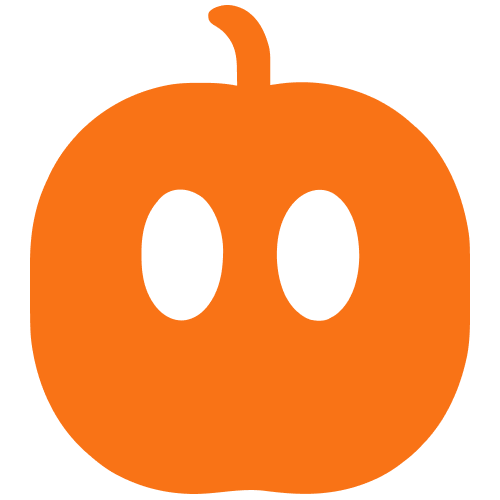
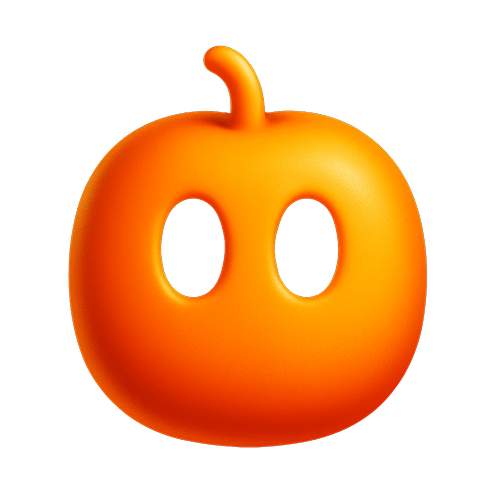
update images

diff --git a/app/page.tsx b/app/page.tsx
@@ -23,10 +23,10 @@ export default function Home() {
         <div className="backdrop-blur-[10px] bg-white/5 border border-white/20 rounded-[50px] px-8 py-4 shadow-[0_4px_30px_rgba(0,0,0,0.1)] flex items-center justify-between">
           <div className="flex items-center">
             <Image
-              src="/logo-with-text-white.png"
+              src="/3d-logo-with-text-orange.png"
               alt="Tangerine"
-              width={160}
-              height={40}
+              width={200}
+              height={43}
               className="h-8 w-auto"
             />
             <h1 className="sr-only">TANGERINE</h1>
@@ -83,7 +83,7 @@ export default function Home() {
           <h2 className="text-5xl sm:text-6xl md:text-7xl font-bold tracking-tight text-white/80">
             Perp DEX
             <br />
-            <span className="inline-block text-6xl sm:text-8xl font-bold backdrop-blur-[10px] bg-white/5 border border-white/20 rounded-[50px] px-8 py-4 shadow-[0_4px_30px_rgba(0,0,0,0.1)] mt-4 text-[#7316f9]">
+            <span className="inline-block text-6xl sm:text-8xl font-bold backdrop-blur-[10px] bg-white/5 border border-white/20 rounded-[50px] px-8 py-4 shadow-[0_4px_30px_rgba(0,0,0,0.1)] mt-4 text-white">
               Aggregator
             </span>
           </h2>
